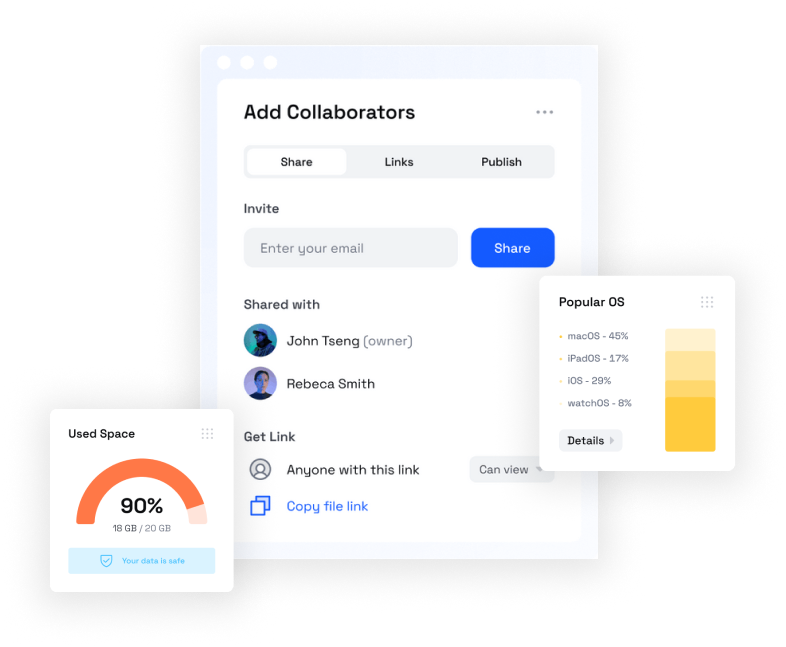
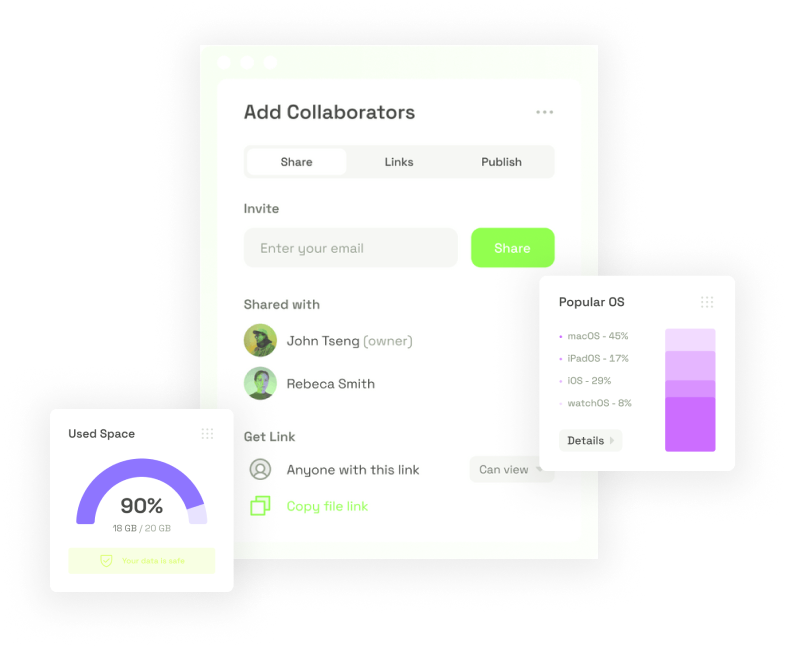
Index page content added

diff --git a/src/layouts/function-components/CareerBenefits.jsx b/src/layouts/function-components/CareerBenefits.jsx
@@ -1,6 +1,6 @@
 import * as Icon from "react-feather";
 import { humanize } from "@lib/utils/textConverter";
-const CareerBenifits = ({ benifits: { title, description, benifit_list } }) => {
+const CareerBenefits = ({ benefits: { title, description, benefit_list } }) => {
   return (
     <section className="section">
       <div className="container">
@@ -11,7 +11,7 @@ const CareerBenifits = ({ benifits: { title, description, benifit_list } }) => {
           </div>
         </div>
         <div className="row mt-14 text-center">
-          {benifit_list.map((item, i) => {
+          {benefit_list.map((item, i) => {
             const FeatherIcon = Icon[humanize(item.icon)];
 
             return (
@@ -31,7 +31,7 @@ const CareerBenifits = ({ benifits: { title, description, benifit_list } }) => {
                       transform="translate(100 100)"
                     />
                   </svg>
-                  <span className="benifit-icon absolute left-1/2 top-1/2 -translate-x-1/2 -translate-y-[28%]">
+                  <span className="benefit-icon absolute left-1/2 top-1/2 -translate-x-1/2 -translate-y-[28%]">
                     <FeatherIcon color={item.color} size={48} />
                   </span>
                 </div>
@@ -46,4 +46,4 @@ const CareerBenifits = ({ benifits: { title, description, benifit_list } }) => {
   );
 };
 
-export default CareerBenifits;
+export default CareerBenefits;

diff --git a/src/styles/utilities.scss b/src/styles/utilities.scss
@@ -15,9 +15,9 @@ code {
 }
 
 .bg-gradient-to-tl {
-  background-image: linear-gradient(184.78deg, #fa709a 7.64%, #fee140 120.07%);
+  background-image: linear-gradient(184.78deg, #BF89FD 7.64%, #DD71FE 120.07%);
 }
 
 .bg-gradient {
-  background-image: linear-gradient(184.78deg, #fa709a 7.64%, #fee140 120.07%);
+  background-image: linear-gradient(184.78deg, #BF89FD 7.64%, #DD71FE 120.07%);
 }

diff --git a/src/styles/components.scss b/src/styles/components.scss
@@ -382,7 +382,7 @@ select:invalid {
   }
 }
 // career
-.benifit-icon {
+.benefit-icon {
   svg {
     @apply h-8 w-24 text-xl text-dark;
   }

diff --git a/src/content/homepage/index.md b/src/content/homepage/index.md
@@ -1,80 +1,85 @@
 ---
 banner:
-  title: "Scale design & dev operations with Avocode Enterprise"
-  content: "A fully integrated suite of authentication & authoriz products, Stytch’s platform removes the headache of."
-  image: /images/banner-img.png
-  button:
-    label: Download The Theme
-    link: "https://themefisher.com/astro-themes/pinwheel-astro"
-    enable: true
+  title: "Track, manage & maintain every single asset in your organization."
+  content:
+      Ensure asset reliability and availability. \
+      
+      Predict maintenance and automate maintainence scheduling.
+  image: /images/banner-img-water.png
+  buttons:
+    - label: Get started
+      link: "https://themefisher.com/astro-themes/pinwheel-astro"
+      enable: true
+    - label: Learn More
+      link: "#"
+      outline: true
+      enable: true
 
 ##key features
 key_features:
-  title: "The Highlighting Part Of Our Solution"
-  description: Lorem ipsum dolor sit amet, consectetur adipiscing elit. Morbi egestas Werat viverra id et aliquet. vulputate egestas sollicitudin.
+  title: "What you get with Reliable.Assets"
+  description: Whether you are a small or medium size business or a large enterprise, Reliable.Assets has features to meet your specific requirements..
   feature_list:
     - icon: "map"  #icon package react-feather-icon [https://feathericons.com/]
-      title: Live Caption
-      content: Lorem ipsum dolor sit amet, consectetur adipiscing elit.
+      title: Multi-site, multi-location asset hierarchy
+      content: Centrally manage all assets & their hierarchies across multiple sites and multiple locations within a site.
     - icon: "lock"  #icon package react-feather-icon [https://feathericons.com/]
-      title: Smart Reply
-      content: Lorem ipsum dolor sit amet, consectetur adipiscing elit.
+      title: Track and optimize asset lifecycle
+      content: Right from asset aquisition to its end of life, track every stage og every asset to optimize its value.
     - icon: "link"  #icon package react-feather-icon [https://feathericons.com/]
-      title: Sound Amplifier
-      content: Lorem ipsum dolor sit amet, consectetur adipiscing elit.
+      title: Manage inventory
+      content: Keep stock of spareparts, materials and tools required to ensure timely availability for workorder completion.
     - icon: "bell"  #icon package react-feather-icon [https://feathericons.com/]
-      title: Sound Amplifier
-      content: Lorem ipsum dolor sit amet, consectetur adipiscing elit.
+      title: Automate maintenance
+      content: Create job & maintenance plans and automate work order creation based on time based & meter based frequencies.
     - icon: "monitor"  #icon package react-feather-icon [https://feathericons.com/]
-      title: Smart Reply
-      content: Lorem ipsum dolor sit amet, consectetur adipiscing elit.
+      title: Manage workorders 
+      content: Track workorders to completion based on priority and ensure required inventory on time.
     - icon: "map"  #icon package react-feather-icon [https://feathericons.com/]
-      title: Live Caption
-      content: Lorem ipsum dolor sit amet, consectetur adipiscing elit.
-    - icon: "link"  #icon package react-feather-icon [https://feathericons.com/]
-      title: Sound Amplifier
-      content: Lorem ipsum dolor sit amet, consectetur adipiscing elit.
-    - icon: "bell"  #icon package react-feather-icon [https://feathericons.com/]
-      title: Sound Amplifier
-      content: Lorem ipsum dolor sit amet, consectetur adipiscing elit.
-    - icon: "map"  #icon package react-feather-icon [https://feathericons.com/]
-      title: Smart Reply
-      content: Lorem ipsum dolor sit amet, consectetur adipiscing elit.
-    - icon: "monitor"  #icon package react-feather-icon [https://feathericons.com/]
-      title: Live Caption
-      content: Lorem ipsum dolor sit amet, consectetur adipiscing elit.
+      title: Insights & analytics
+      content: Get insights at an organization, site or individual asset level. Make informed decisions.
 
 #service
 service:
   homepage_tab:
-    title: Prevent failure from to impacting your reputation
-    description: Our platform helps you build secure onboarding authentication experiences that retain and engage your users. We build the infrastructure, you can.
+    title: What to expect when working with us?
+    description: We understand how important it is for all your assets to function all the time. Here are tools and services we offer.
     tab_list:
-        - title: Habit building essential choose habit
+        - title: Configurable, easy-to-use tools
           icon: "lock"  #icon package react-feather-icon [https://feathericons.com/]
           image: "/images/sells-by-country.png"
-        - title: Get an overview of Habit Calendars.
+        - title: Safe, enterprise-grade platform
           icon: "clock"  #icon package react-feather-icon [https://feathericons.com/]
           image: "/images/collaboration.png"
-        - title: Start building with Habitify platform
+        - title: Robust data and deeper insights
+          icon: "bell"  #icon package react-feather-icon [https://feathericons.com/]
+          image: "/images/sells-by-country.png"
+        - title: Continuous innovation
+          icon: "lock"  #icon package react-feather-icon [https://feathericons.com/]
+          image: "/images/sells-by-country.png"
+        - title: Increased ROI
+          icon: "clock"  #icon package react-feather-icon [https://feathericons.com/]
+          image: "/images/collaboration.png"
+        - title: Our legendary support
           icon: "bell"  #icon package react-feather-icon [https://feathericons.com/]
           image: "/images/sells-by-country.png"
 
   our_service:
-    - title: Accept payments any country in this whole universe
-      desctiption: Donec sollicitudin molestie malesda. Donec sollitudin molestie malesuada. Mauris pellentesque nec, egestas non nisi. Cras ultricies ligula sed
+    - title: Ready to see what Reliable.Assets can do for you?
+      desctiption: See how quickly our asset reliability software can boost your organization’s efficiency and achieve operational excellence.
       image: "/images/collaboration.png"
       list:
-        - Supporting more than 119 country world
-        - Open transaction with more than currencies
-        - Customer Service with 79 languages
-    - title: Accountability that works for you
-      description: Lorem ipsum dolor sit amet, consectetur adipiscing elit. Morbi egestas Werat viverra id et aliquet. vulputate egestas sollicitudin.
+        - Quickly make data-driven decisions
+        - Simplify your day-to-day work
+        - Switch from reactive to proactive mode
+    
+    - title: See it in action
+      description: Streamline processes, reduce costs and extend the life of assets and equipment in your organization.
       video:
         thumbnail: "/images/intro-thumbnail.png"
         video_id: "g3-VxLQO7do"
       button:
-        label: Know About Us
+        label: Learn more
         link: "#"
         enable: true
 

diff --git a/README.md b/README.md
@@ -1,4 +1,4 @@
-<h1 align=center>Pinwheel Astro</h1>
+<h1 align=center>Reliable.Assets</h1>
 <p align=center>Pinwheel is a free multipurpose SaaS theme built with Astro, TailwindCSS and TypeScript with 17+ pre-designed pages.</p>
 <h2 align="center"><a target="_blank" href="https://pinwheel-astro.vercel.app/" rel="nofollow"> 👀 Demo</a> | <a  target="_blank" href="https://pagespeed.web.dev/analysis/https-pinwheel-astro-vercel-app/kmaxqwa7rx?form_factor=desktop"> Page Speed (95+) 🚀 </a>
 </h2>

diff --git a/src/content/pages/terms-and-conditions.md b/src/content/pages/terms-and-conditions.md
@@ -1,5 +1,5 @@
 ---
-title: "Terms & Condition Of Pinwheel"
+title: "Terms & Condition Of Reliable.Assets"
 excerpt: Donec sollicitudin molestie malesda. Donec sollitudin molestie male <br /> suada Mauris pellentesque nec egestas non nisi Cras
 draft: false
 ---

diff --git a/src/content/about/index.md b/src/content/about/index.md
@@ -2,7 +2,7 @@
 title: "About"
 page_title: "About our company"
 buttons:
-  - label: Download The Theme
+  - label: Get started
     link: "https://themefisher.com/astro-themes/pinwheel-astro"
     enable: true
   - label: Learn More

diff --git a/src/content/contact/index.md b/src/content/contact/index.md
@@ -1,4 +1,4 @@
 ---
 title: Contact
-page_title: Get’n touch with Our </br> Pinwheel team
+page_title: Get’n touch with Our </br> Reliable.Assets team
 ---
